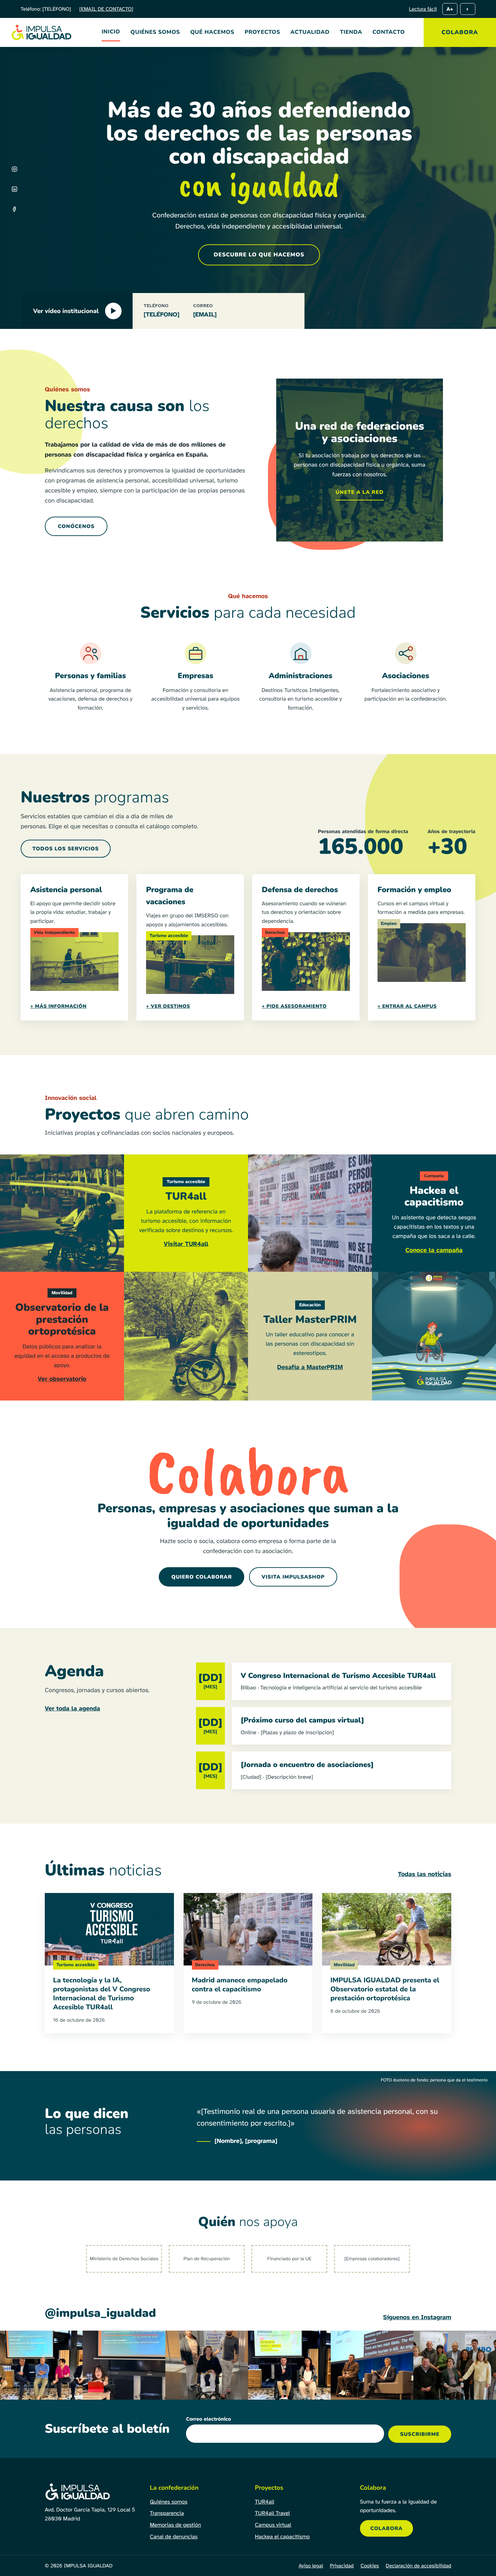
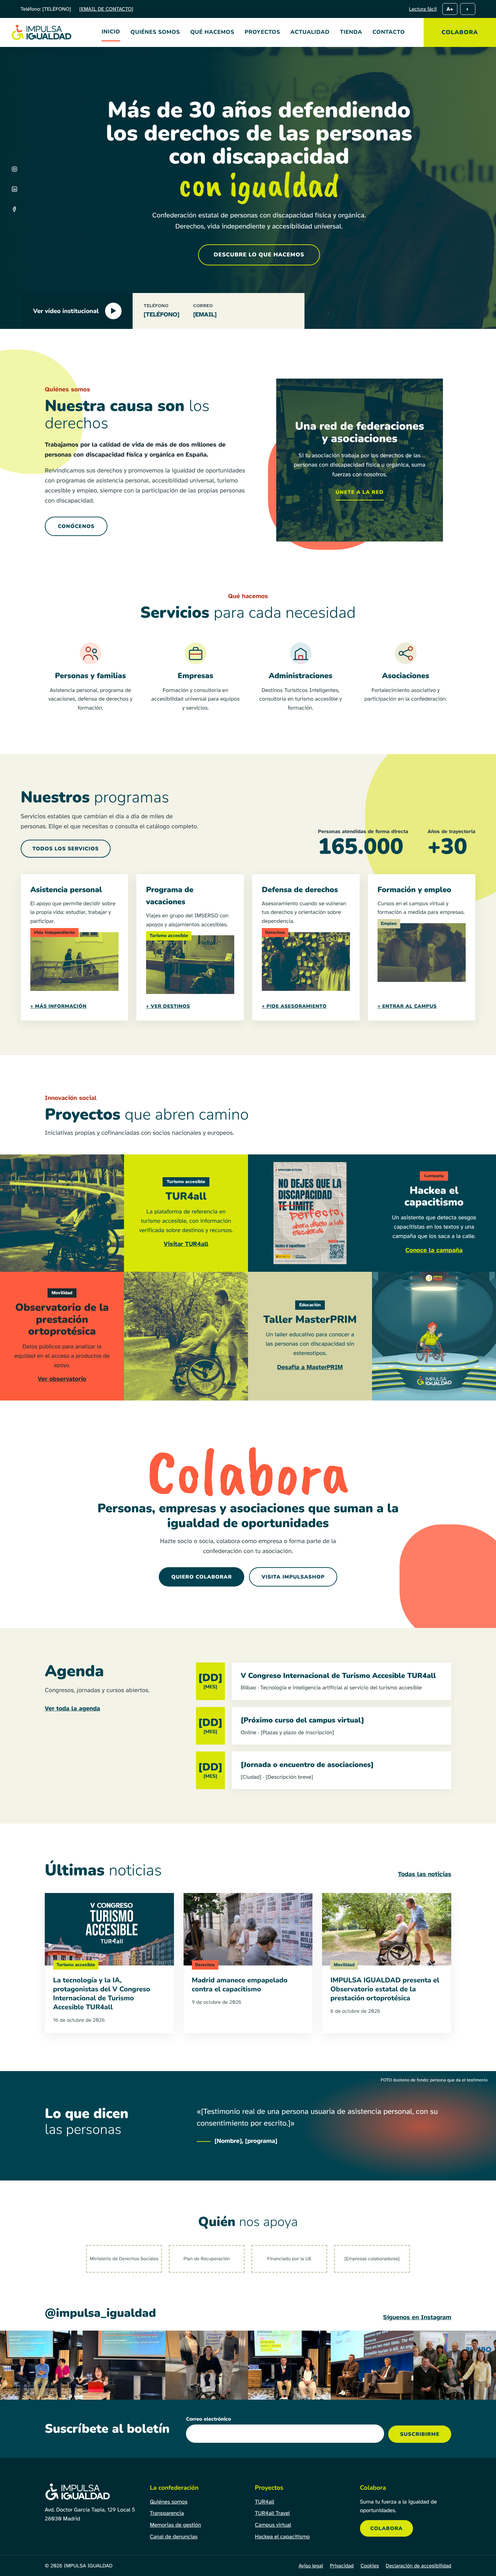
Usa un cartel real de la campaña en el proyecto Hackea el capacitismo
Sustituye el recorte provisional de la foto de la noticia por el cartel 1
de los 14 publicados en la web de la campaña, mostrado entero.

Claude-Session: https://claude.ai/code/session_01ViN75pexfLAHXabH9yyvxK

Changed region(s): [[0.5, 0.437, 0.75, 0.4995]]

diff --git a/index.html b/index.html
@@ -33,6 +33,7 @@ a:focus-visible,button:focus-visible,input:focus-visible,summary:focus-visible{o
 .proyectos{display:grid;grid-template-columns:repeat(auto-fit,minmax(min(100%,640px),1fr))}
 .par{display:grid;grid-template-columns:1fr 1fr}
 .par-foto{position:relative;min-height:340px;background:#004250}
+.par-foto.cartel img{object-fit:contain;padding:22px;box-sizing:border-box}
 @media (min-width:1280px){.par:nth-child(n+3) .par-foto{order:2}}
 @media (max-width:640px){.par{grid-template-columns:1fr}.par-foto{min-height:240px}}
 </style>
@@ -212,7 +213,7 @@ a:focus-visible,button:focus-visible,input:focus-visible,summary:focus-visible{o
 </article>
 </div>
 <div class="par">
-<div class="par-foto"><div class="foto"><img src="img/proy-hackea.webp" alt="Pared cubierta de carteles de la campaña con frases capacitistas tachadas y corregidas a mano, como «Es una persona especial»." width="648" height="648" loading="lazy"></div></div>
+<div class="par-foto cartel"><div class="foto"><img src="img/proy-hackea.webp" alt="Cartel de la campaña. Frase capacitista tachada: «No dejes que la discapacidad te limite». Respuesta escrita a mano: «Perfecto, ahora díselo a las escaleras»." width="500" height="700" loading="lazy"></div></div>
 <article style="min-height: 340px; background: #004250; color: #FFFFFF; padding: 48px 40px; box-sizing: border-box; display: flex; flex-direction: column; justify-content: center; gap: 12px; text-align: center">
 <span style="align-self: center; background: #FF5C3E; color: #1B2B30; font-weight: 700; font-size: 13px; padding: 3px 12px">Campaña</span>
 <h3 style="margin: 0; font-family: Nunito, sans-serif; font-weight: 900; font-size: 30px; line-height: 1.15">Hackea el capacitismo</h3>

diff --git a/CREDITOS.md b/CREDITOS.md
@@ -1,6 +1,6 @@
 # Créditos de las imágenes
 
-Demo de la nueva home de IMPULSA IGUALDAD. Todas las imágenes proceden de www.impulsaigualdad.org, descargadas el 10 de noviembre de 2026. No se ha usado ninguna imagen de Unsplash ni de Pexels.
+Demo de la nueva home de IMPULSA IGUALDAD. Todas las imágenes proceden de www.impulsaigualdad.org, descargadas el 10 de noviembre de 2026, salvo el cartel de la campaña Hackea el capacitismo, que procede de la web de la campaña. No se ha usado ninguna imagen de Unsplash ni de Pexels.
 
 Los originales están sin modificar en `fotos/web/`. Las versiones optimizadas (WebP, recortadas y reducidas) están en `img/`. El duotono azul (#004250) y verde (#D9E506) se aplica con CSS en `index.html`, no sobre los archivos.
 
@@ -22,7 +22,7 @@ Las rutas de origen son relativas a `https://www.impulsaigualdad.org/wp-content/
 | Programa: defensa de derechos | `derechos.webp` | `derechos-mural.png` | `uploads/2023/11/CALLAO-2-1024x461-1.png` (página del proyecto RUMBO) | Duotono |
 | Programa: formación y empleo | `formacion.webp` | `formacion-campus.png` | `uploads/2023/11/slider_campus.png` (slider de la home) | Duotono |
 | Proyectos: TUR4all | `proy-tur4all.webp` | `tur4all-alhambra.jpg` | `uploads/2023/12/imserso2-e1713860974953.jpg` (página del programa de vacaciones) | Recorte y duotono |
-| Proyectos: Hackea el capacitismo | `proy-hackea.webp` | `noticia-capacitismo.png` | `uploads/2026/10/NdP-Madrid-amanece-empapelado-contra-el-capacitismo.png` | Recorte sobre los carteles, sin duotono. Provisional: falta un cartel de la web de la campaña |
+| Proyectos: Hackea el capacitismo | `proy-hackea.webp` | `hackea-cartel-01.webp` | Cartel 1 de 14 publicado en https://hackeaelcapacitismo.impulsaigualdad.org/ (consultada el 11 de noviembre de 2026) | Sin duotono ni recorte; es el archivo de la web tal cual |
 | Proyectos: Observatorio | `proy-observatorio.webp` | `noticia-observatorio.png` | La misma imagen de la noticia del Observatorio | Duotono |
 | Proyectos: Taller MasterPRIM | `proy-masterprim.webp` | `masterprim-portada.jpg` | `uploads/2024/09/slider_masterprim.jpg` (portada de MasterPRIM en el slider de la home) | Sin duotono |
 | Noticia: V Congreso TUR4all | `noticia-congreso.webp` | `noticia-congreso.png` | `uploads/2026/10/IA_Congreso-turismo-accesible_Bilbao.png` | Sin duotono |
